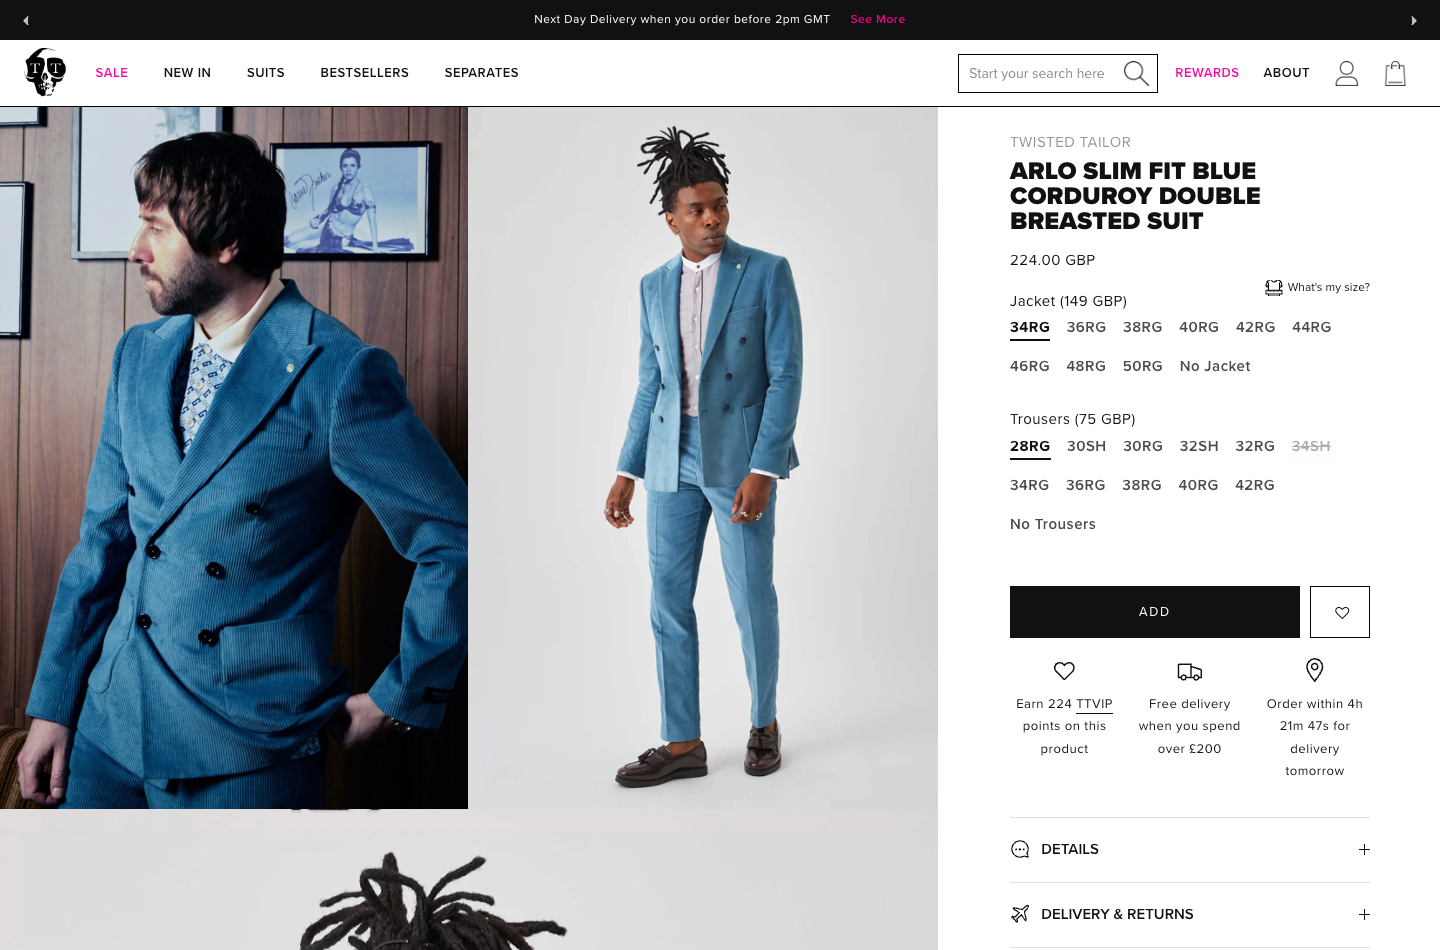
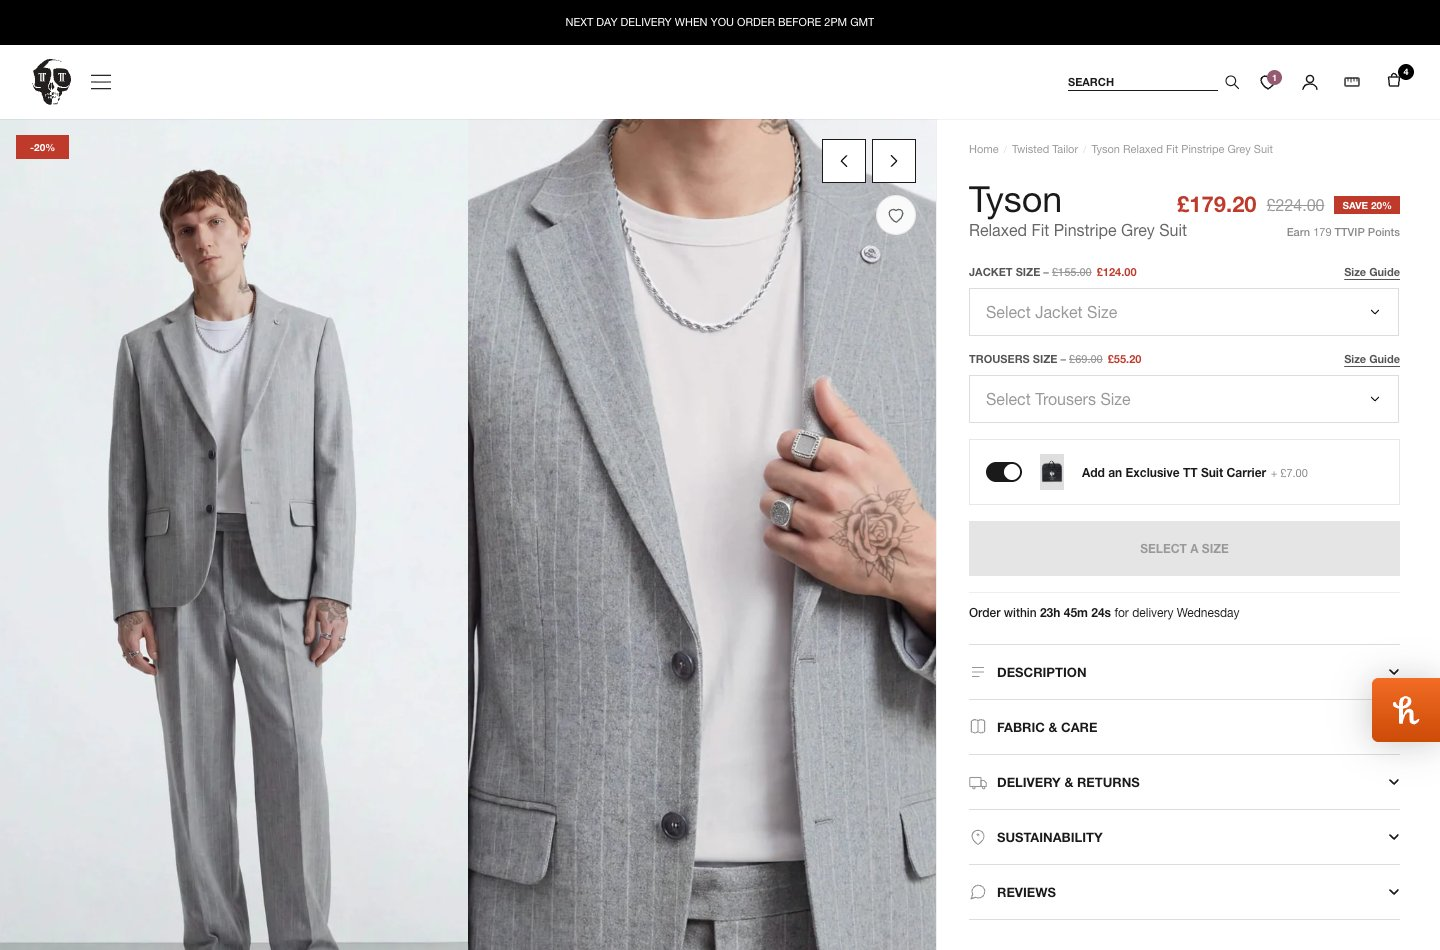
Twisted Tailor: rewrite around the new theme, MyFitt, and the app cull
Reframed the case study as a second ground-up rebuild: 8 apps replaced
with native theme code, ~$250/m off the app bill, MyFitt cross-device
size persistence, and the AI support chapter kept intact. Swapped in
four fresh screenshots (PDP + PLP + MyFitt drawer + basket).

diff --git a/src/content/work.ts b/src/content/work.ts
@@ -674,22 +674,22 @@ export const caseStudies: CaseStudy[] = [
     slug: "twisted-tailor",
     client: "Twisted Tailor",
     tag: "Fashion · eCommerce · AI",
-    year: "2024",
+    year: "2024 to present",
     accent: "teal",
     heroImage: "/work/twisted-tailor.jpg",
     heroImageAlt: "Twisted Tailor storefront",
     excerpt:
-      "A Shopify rebuild for one of London's most-recognisable menswear names, with custom suit-set functionality and an AI support agent that halved customer-service hours.",
+      "A ground-up Shopify rebuild for the London menswear house. Eight third-party apps replaced with native theme code, roughly $250 a month off the app bill, and a custom size-persistence system called MyFitt that follows the customer around the store.",
     services: ["Shopify build", "eCommerce consultancy", "SEO", "AI support agent"],
     stack: ["Shopify", "Custom theme", "Claude API"],
-    timeline: "8 weeks",
+    timeline: "Ongoing partnership",
     url: "https://twistedtailor.com",
     featured: true,
     categories: ["ecommerce", "ai"],
     body: [
       {
         type: "intro",
-        text: "Twisted Tailor sell suits, but standard Shopify treats a jacket and trousers as two separate products. Customers were adding half a suit to basket. We fixed it, then automated the support queue that came from years of confusion.",
+        text: "Twisted Tailor is one of London's most recognisable menswear names, and one we've worked with for years. The most recent chapter is a full ground-up theme rebuild. Eight third-party apps rewritten as native sections, a custom size-persistence system, and a support agent that halved the inbox.",
       },
 
       // ── Chapter 01 ─────────────────────────────────────────────
@@ -699,27 +699,83 @@ export const caseStudies: CaseStudy[] = [
         num: "01",
         label: "Website",
         description:
-          "A Shopify rebuild with custom suit-pairing functionality to solve the jacket-and-trousers problem at source.",
+          "A second ground-up Shopify build. Eight apps replaced with theme code, roughly $250 a month off the app bill, and a size-persistence system built to the brand.",
       },
       {
         type: "section",
-        eyebrow: "The problem",
-        heading: "A suit is not two products",
+        eyebrow: "The brief",
+        heading: "Eight apps in, one theme out",
         body: [
-          "Out of the box, Shopify doesn't know that a jacket and a trouser belong together. Customers were buying one half. Customer service were spending hours untangling it. Refunds climbed. Conversion dropped on what should have been a simple sale.",
-          "We built custom functionality that pairs jacket and trouser as one item. Sizing logic, one add-to-basket moment, one sale on the ledger. The confusion stopped.",
+          "The prior build worked, but the app stack had crept up the way every Shopify stack does when a store gets to age three. Cart recommendations, a 'buy the trousers, save 10%' upsell, a size recommender, a size guide app, a gallery app, a wishlist, a bundle app for suits-as-separates, and back-in-stock alerts. Each one a monthly fee, a script, and a thing that broke when someone else updated it.",
+          "The new brief was different. Rebuild from scratch. Move every app function into the theme itself. Make every section editor-friendly so the team can extend without a developer. Head down, ship it.",
         ],
-        phone: {
-          src: "/work/twisted-tailor/mobile.jpg",
-          alt: "Twisted Tailor on mobile",
-          caption: "Mobile · suit pairing",
-        },
+      },
+      {
+        type: "section",
+        eyebrow: "What got rebuilt",
+        heading: "Eight apps replaced with theme code",
+        body: [
+          "Cart recommendations, the 'complete the suit' trouser upsell, the size recommender, the size guide, the gallery, the wishlist, the bundle logic for suits sold as separates, and back-in-stock alerts. All rewritten as native theme sections. No third-party scripts, no render blockers, no app fees.",
+          "The bundle piece matters most. Twisted's suits sell as jacket, trouser, and waistcoat priced individually, but the PDP has to feel like one product. Jacket size and trouser size pick their own dropdowns, the exclusive TT suit carrier drops in as a toggle, and the basket lines up the pieces together. All in the theme, no bundle app underneath it.",
+        ],
+      },
+      {
+        type: "statGroup",
+        items: [
+          {
+            eyebrow: "Shopify apps retired",
+            value: "8",
+            label: "replaced with theme sections",
+          },
+          {
+            eyebrow: "App bill, off",
+            value: "$250",
+            label: "per month, saved",
+          },
+          {
+            eyebrow: "MyFitt",
+            value: "Live",
+            label: "size follows the customer",
+          },
+          {
+            eyebrow: "Build",
+            value: "8 weeks",
+            label: "start to finish",
+          },
+        ],
       },
       {
         type: "browser",
-        src: "/work/twisted-tailor/storefront.jpg",
-        alt: "Twisted Tailor storefront",
+        src: "/work/twisted-tailor/storefront-2.jpg",
+        alt: "Twisted Tailor product page with separate jacket and trouser size dropdowns",
         url: "twistedtailor.com",
+      },
+      {
+        type: "section",
+        eyebrow: "MyFitt",
+        heading: "A size that follows the customer",
+        body: [
+          "Twisted sell across jackets, trousers, waistcoats, and casualwear, each with their own sizing grid. Asking a customer to remember four numbers between visits is asking to lose the sale.",
+          "MyFitt is our answer. Customers set their sizes once, in a single drawer, and the site remembers. Sizes pre-select on the PDP, collection pages hide styles that aren't in stock in their size, and because it's tied to their customer account the setting follows them cross-device the moment they sign in.",
+        ],
+        phone: {
+          src: "/work/twisted-tailor/mobile.jpg",
+          alt: "MyFitt size drawer on mobile",
+          caption: "Mobile · MyFitt",
+        },
+      },
+      {
+        type: "section",
+        eyebrow: "The basket",
+        heading: "A suit lands as a suit",
+        body: [
+          "The pieces sell separately but the basket has to read as one purchase. Jacket, trouser, and the optional TT suit carrier show as clean line items, the free-shipping threshold sits at the top, and a 'complete the look' rail replaces the cart-recommendations app that used to charge a fee to do the same thing.",
+        ],
+        phone: {
+          src: "/work/twisted-tailor/mobile-2.jpg",
+          alt: "Twisted Tailor basket showing jacket, trouser and TT suit carrier",
+          caption: "Mobile · basket",
+        },
       },
 
       // ── Chapter 02 ─────────────────────────────────────────────
@@ -727,7 +783,7 @@ export const caseStudies: CaseStudy[] = [
         type: "chapter",
         id: "apps",
         num: "02",
-        label: "Custom Apps",
+        label: "AI Support",
         description:
           "An AI customer-service agent that halved support hours while keeping the brand voice intact.",
       },
@@ -746,32 +802,17 @@ export const caseStudies: CaseStudy[] = [
         caption: "AI support agent · live product view",
       },
       {
-        type: "statGroup",
-        items: [
-          {
-            eyebrow: "Customer service hours",
-            value: "−50%",
-            label: "saved each week",
-            footnote: "AI-drafted, human-approved.",
-          },
-          {
-            eyebrow: "Custom build",
-            value: "Suit pairing",
-            label: "one item, one sale",
-          },
-          {
-            eyebrow: "AI agent",
-            value: "Live",
-            label: "in production",
-          },
-        ],
-      },
-      {
         type: "deliverables",
         heading: "Deliverables",
         items: [
-          "Shopify build",
-          "Custom suit-pairing functionality",
+          "Shopify build (second ground-up)",
+          "Custom theme",
+          "Suits-as-separates bundle logic (app replaced)",
+          "Native wishlist (app replaced)",
+          "Native size recommender + size guide (2 apps replaced)",
+          "Cart recommendations + trouser upsell (2 apps replaced)",
+          "Native gallery + back-in-stock alerts (2 apps replaced)",
+          "MyFitt cross-device size persistence",
           "AI customer service agent",
           "eCommerce consultancy",
           "SEO program",
